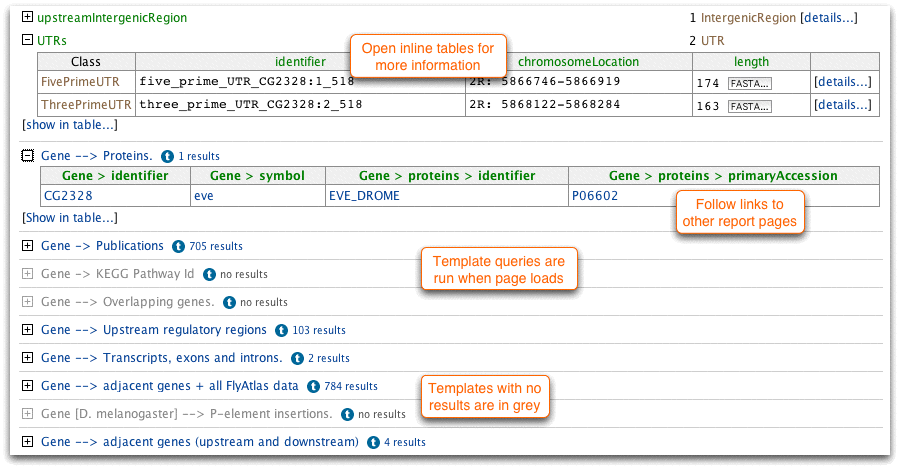
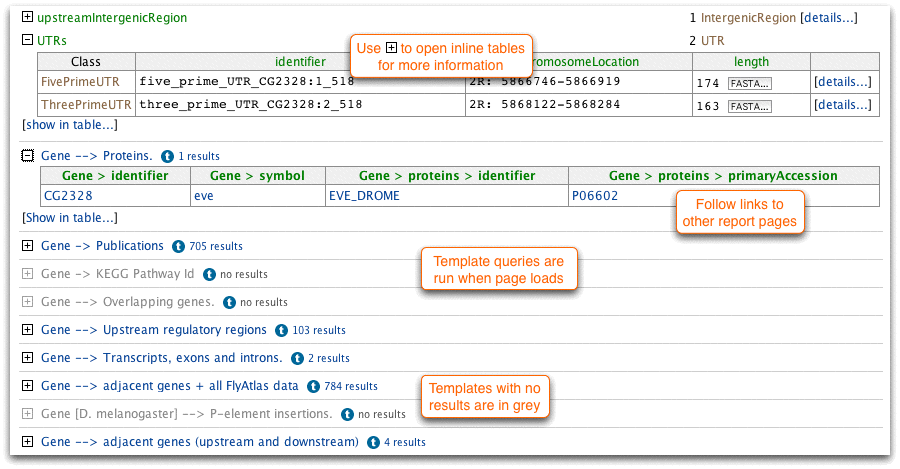
Updates to tour from Gos' feedback.

Changed region(s): [[0.3733, 0.0597, 0.6222, 0.1791], [0.4667, 0.806, 0.6222, 0.8358], [0.4667, 0.5373, 0.6222, 0.5672]]

diff --git a/www/flymine/site/tour/tour_10.html b/www/flymine/site/tour/tour_10.html
@@ -48,7 +48,7 @@ MyMine
         <div >
 
 <p>
-You can use bags in any template query or queries you create yourself in the QueryBuilder.  As the bag details page suggested many of the genes in our bag are transcription factors we can run a template to find the genes they regulate.  FlyMine includes FlyReg - a curated DNase 1 binding site data set which we can query with another template. 
+You can use bags in any template query, or queries you create yourself in the QueryBuilder.  As the bag details page suggested many of the genes in our bag are transcription factors we can run a template to find the genes they regulate.  FlyMine includes FlyReg - a curated DNase 1 binding site data set which we can query with another template. 
 </p>
 
 <p><b>Search the template queries for 'regulated genes'.</b></p>
@@ -59,15 +59,15 @@ You can use bags in any template query or queries you create yourself in the Que
 
 <img alt="[Select template]"  src="select_template2.png"/>
 
-<p>Now that we have created a bag the template query gives us the option to use it instead of entering and identifier.</p>
+<p>Now that we have created a bag the template query gives us the option to use it instead of entering an identifier.</p>
 
-<p><b>Click the checkbox to select our demo bag and run the query.</b></p>
+<p><b>Click the checkbox to select the demo bag you named earlier, and then run the query.</b></p>
 
 <img alt="[Run template with bag]"  src="template_bag.png"/>
 
 <p>The results table shows any genes from our original bag that, according to FlyReg, regulate a particular gene.</p>
 
-<p>You can also create new bags from results tables.  We can save a bag of the regulated genes from this query to look at the bag details page or use it in more templates.</p>
+<p>You can also create new bags from results tables.  We can save a bag of the regulated genes from this query for analysis on the bag details page or to use in more templates.</p>
 
 <p><b>Click on the checkbox by 'Regulated gene > identifier' and choose a name for the saved bag.</b></p>
 
@@ -81,7 +81,7 @@ You can use bags in any template query or queries you create yourself in the Que
 <li>all the orthologues in another organism, e.g. <i>D. pseudoobscura</i></li>
 <li>gene expression results from FlyAtlas</li>
 <li>protein-protein interactions for these genes</li>
-<li>and P-element insertions that overlap these genes</li>
+<li>P-element insertions insertions for these genes</li>
 </ul>
 </p>
 

diff --git a/www/flymine/site/tour/tour_6.html b/www/flymine/site/tour/tour_6.html
@@ -60,7 +60,7 @@ Bag Upload
 
 <p>The pane on the left is a view of the data model starting at the class gene and showing all attributes (e.g. name, symbol) and related classes (e.g. organism, proteins).  FlyMine uses an object based data model - biological types are termed 'classes' and individual entries are termed 'objects'.  For example the 'zen' and 'eve' genes are both objects of the class Gene.</p>
 
-<p>You can click to open related classes and see their attributes.  The <img alt="[show]"  src="show.gif"/> and <img alt="[constrain]"  src="constrain.gif"/> buttons let you add fields to the output of a query and add constraints (filters). </p> 
+<p>You can click to open related classes and see their attributes.  Use the <img alt="[show]"  src="show.gif"/> button to add fields to the output.  The <img alt="[constrain]" src="constrain.gif"/> button lets you add constraints (filters). </p> 
 
 <img alt="[query builder]"  src="query_builder.png"/>
 
@@ -74,7 +74,7 @@ Bag Upload
 
 <img alt="[click show results]"  src="click_show_results.png"/>
 
-<p>Now we have run the query to show orthologues of the starting gene whether they have GO annotation or not.  Now if you click the <img alt="[summary icon]"  src="summary_maths.png" valign="center"/> button for the column 'Orthologue > organism > shortName' it will show you how many orthologues there are in each organism.</p>
+<p>Now we have run the query to show orthologues of the starting gene whether they have GO annotation or not.  Now if you click the <img alt="[summary icon]"  src="summary_maths.png" valign="middle"/> button for the column 'Orthologue > organism > shortName' it will show you how many orthologues there are in each organism.</p>
 
 
 

diff --git a/www/flymine/site/tour/tour_11.html b/www/flymine/site/tour/tour_11.html
@@ -47,14 +47,19 @@ Use bags in template queries
       <div style="padding-top: 20px" class="content">
         <div >
 
-<p>The bags that we have created will be saved temporarily for our current session.  To save them permanently in FlyMine you can create a MyMine account.</p>
+<p>The bags that we have created will be saved temporarily for the current session. To save them permanently in FlyMine you can create a MyMine account.</p>
+
+<p>You only need to provide an email address and a password to generate an account, there is no other information required.  Your saved data is always private.</p>
 
 <img alt="[Click log in]"  src="click_login.png"/>
 
- <p>In MyMine you can save bags and queries you create in the QueryBuilder.  You can even use the QueryBuilder to turn a new query into a template of your own.</p>
+ <p>In MyMine you can save bags and queries you create in the QueryBuilder.  You can even use the QueryBuilder to turn queries into new templates of your own.  You can export/import queries and templates as XML to share them with others.</p>
+
+<p>The <img alt="[Favourite]"  src="star_active.gif"/> icon lets you set templates as favourites so it easy to access the ones you use often.</p>
 
 <img alt="[MyMine tabs]"  src="mymine_tabs.png"/>
 
+<p/>
 <p/>
 
 <p>Please contact us if you have any questions or suggestions: <b>support@flymine.org</b></p>

diff --git a/www/flymine/site/tour/tour_1.html b/www/flymine/site/tour/tour_1.html
@@ -74,20 +74,20 @@ introduce some of the features:</p>
 an identifier to see a report page.</p>
 
 <p><b>Template queries</b> are 'canned' queries that provide a simple
-form to perform a specific task.</p>
+form to perform a specific task.  You can create your own templates if
+you log in.</p>
 
 <p><b>Bags</b> let you operate on whole lists of data at once.  You can
-upload your own lists or save them from results tables.</p>
+upload lists or save them from results tables.</p>
 
-<p><b>The QueryBuilder</b> lets you create your own custom queries and
+<p><b>The QueryBuilder</b> lets you create custom queries and
 edit existing templates.</p>
 
 <p><b>Aspects</b> are a way to explore the data and template queries
 for a particular area of biology - for example Comparative Genomics or
 Protein Interactions.</p>
 
-<p><b>MyMine</b> lets you create an account to save your own queries
-and bags.</p>
+<p><b>MyMine</b> lets you create an account to save your own queries, bags and templates, as well as marking public templates as favourites.</p>
 
 
 

diff --git a/www/flymine/site/tour/tour_7.html b/www/flymine/site/tour/tour_7.html
@@ -47,7 +47,7 @@ Bag confirm page
       <div style="padding-top: 20px" class="content">
         <div >
 
-<p>FlyMine can operate on custom lists of data, we call them <b>bags</b>.  You can save bags from results pages or create them by uploading lists of identifiers.  Bags can be used when running template queries and analysed by a series of <b>widgets</b> on a bag details page.  You can also perform set operations on bags.</p>
+<p>FlyMine can operate on custom lists of data, we call them <b>bags</b>.  You can save bags from results pages or create them by uploading lists of identifiers.  Bags can be used when running template queries and analysed by a series of <b>widgets</b> on a bag details page.  You can merge, subtract and find common members if you have more than one bag.</p>
 </p>
 
 <p>

diff --git a/www/flymine/site/tour/tour_9.html b/www/flymine/site/tour/tour_9.html
@@ -48,7 +48,7 @@ Use bags in template queries
         <div >
 
 <p>
-The bag details is a great way to find out more about a list of genes.  A number of 'widgets' display graphs and tables to summarise the contents.  These are interactive - click to see lists of genes in each category,
+The bag details page is a great way to find out more about a list of genes.  A number of 'widgets' display graphs and tables to summarise the contents.  These are interactive - click to see lists of genes in each category.
 </p>
 
 <p><i>Coming soon - we plan to add more widgets and functionality to the bag details page.</i></p>

diff --git a/www/flymine/site/tour/tour_2.html b/www/flymine/site/tour/tour_2.html
@@ -54,7 +54,7 @@ Template Queries
 <img alt="[Quick Search]" src="quick_search.png"/>
 
 <p>
-The report page shows information from many data sources in one place.  There are corresponding pages for all objects in FlyMine, use <img alt="[details...]" align="middle" src="details.png"/> links to browse.
+The report page shows information from many data sources in one place.  There are corresponding pages for all objects in FlyMine, use <img alt="[details...]" valign="middle" src="details.png"/> links to browse.
 </p>
 
 <img alt="[object details summary]"  src="object_details_summary.png"/>
